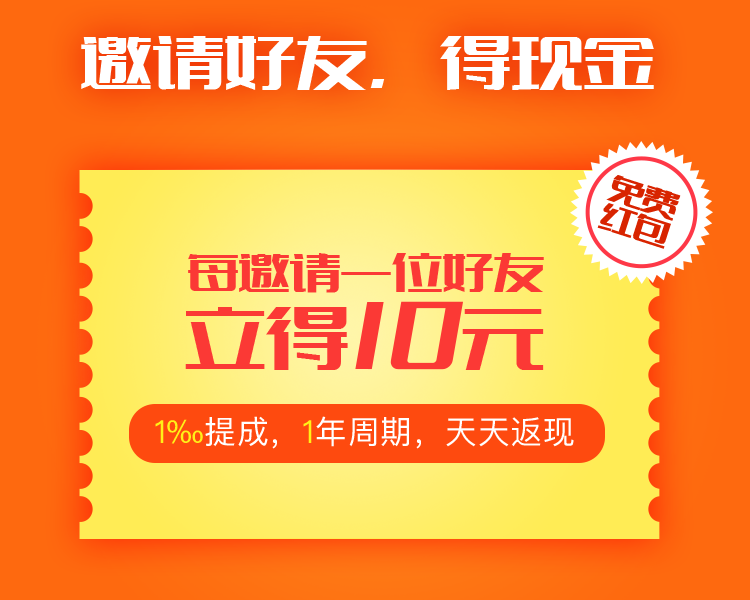
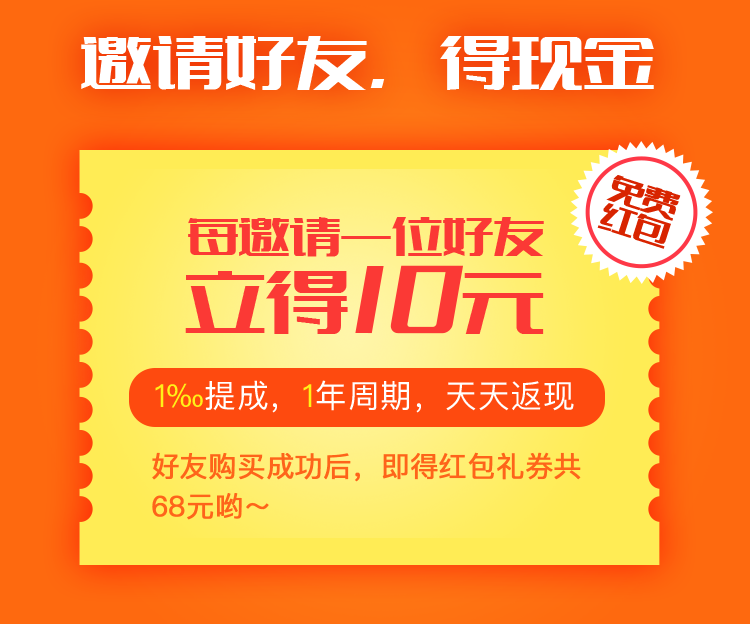
邀请好友页面修改

diff --git a/dist/css/style.css b/dist/css/style.css
@@ -1,1 +1,1 @@
-.invite-list1:before,.circle-success-icon:before{position:absolute;left:50%;-webkit-transform:translateX(-50%);-ms-transform:translateX(-50%);transform:translateX(-50%)}.search-back:before,.popbox1{position:absolute;top:50%;-webkit-transform:translateY(-50%);-ms-transform:translateY(-50%);transform:translateY(-50%)}.popbox2,.popbox3{position:absolute;top:50%;left:50%;-webkit-transform:translate(-50%, -50%);-ms-transform:translate(-50%, -50%);transform:translate(-50%, -50%)}body,h1,h2,h3,h4,h5,h6,p,img,dl,dd,ol,ul,form,th,td,figure,figcaption{margin:0;padding:0;border:0}h1,h2,h3,h4,h5,h6{font-size:100%;font-weight:normal}a{text-decoration:none;color:inherit}body{word-wrap:break-word;word-break:break-all;-webkit-text-size-adjust:100%;-moz-text-size-adjust:100%;-ms-text-size-adjust:100%;text-size-adjust:100%}ol,ul{list-style:none}table{border-collapse:collapse;border-spacing:0}button,input,select,textarea{font-size:100%;font-family:inherit;margin:0;padding:0;outline:none}input::-ms-clear,input::-ms-reveal{display:none}table{border-collapse:collapse;border-spacing:0}caption,th{text-align:left}.search-back:before,.coin-my-btn:before,.coin-signin .link:after,.list-coin-item .money-wrap,.list-coin-item .coin:before,.overlay .close:before,.test-answer-list i:before,.popbox2 i:before,.waiting,.note7 span:before,.circle-txt3:before,.circle-txt3:after,.agreement input:checked+i,.agreement i,.circle-success-icon:before{background-image:url('../img/sprite/sprite_icon.png?v=f6c1ce86');background-image:-webkit-image-set(url('../img/sprite/sprite_icon.png?v=f6c1ce86') 1x, url('../img/sprite/sprite_icon@2x.png?v=2cec14ef') 2x);background-size:229px 212px}html{-webkit-tap-highlight-color:transparent;font-family:Helvetica Neue, Helvetica, STHeiTi, sans-serif}body{-webkit-touch-callout:none;-webkit-user-select:none;-moz-user-select:none;-ms-user-select:none;user-select:none;word-break:normal}body.bg-f7{background-color:#f7f7f7}body.bg-blue{background-color:#0f7fe0}.header{position:relative;height:40px;color:#202c37;background-color:#f9f9f9;z-index:4}.logo-wrap{position:fixed;left:0;top:0;width:100%;text-align:center;font-size:18px;height:39px;line-height:39px;border-bottom:1px solid #d6d6d6;background-color:#f9f9f9}.search-back{position:absolute;left:0;top:0;bottom:0;padding-left:20px;font-size:15px}.search-back:before{content:'';background-position:-148px -99px;width:12px;height:20px;left:6px}.tab{font-size:0;border-bottom:1px solid #e7edef}.tab>li{display:inline-block;vertical-align:top;width:50%;text-align:center;font-size:15px;line-height:43px;color:#5e626d;border-right:1px solid #e7edef;-webkit-box-sizing:border-box;box-sizing:border-box}.tab>li:after{content:'';display:inline-block;vertical-align:middle;margin:-2px 0 0 5px;width:0;height:0;border-bottom:4px solid #5e626d;border-left:4px solid transparent;border-right:4px solid transparent;border-top:0}.tab>li:last-child{border-right:0}.tab .cur{color:#3a8ae2}.tab .cur:after{border-bottom:0;border-top:4px solid #3a8ae2}.tab-option-wrap{position:fixed;top:88px;left:0;width:100%;height:100%;background-color:rgba(0,0,0,0.6);z-index:1}.tab-option-list{padding:0 15px;background-color:#fff;left:0}.tab-option-list li{line-height:50px;color:#7a7e8b}.tab-option-list .cur{color:#3a8ae2}.record-total{background-color:#f6f7f9;padding:3px 15px;color:#7a7e8b;font-size:12px;line-height:16px}.list-record{padding-left:15px}.list-record li{display:-webkit-box;display:-webkit-flex;display:-ms-flexbox;display:flex;-webkit-box-align:center;-webkit-align-items:center;-ms-flex-align:center;align-items:center;border-bottom:1px solid #e7edef;padding:7px 0}.list-record .lr-detail{-webkit-box-flex:1;-webkit-flex:1;-ms-flex:1;flex:1;min-width:0}.list-record .lr-detail p:first-child{line-height:20px;color:#5e626d;font-size:15px}.list-record .lr-detail p:nth-child(2){line-height:17px;color:#7a7e8b;font-size:12px}.list-record .lr-num{padding-right:15px;-webkit-box-flex:0;-webkit-flex:none;-ms-flex:none;flex:none;color:#5e626d;font-size:15px}.column{background-color:#fff;border-bottom:8px solid #f8f8f8}.column-last{background-color:#fff}.coin-my{position:relative;padding:35px 0;background-color:#1C8AE9}.coin-my-record,.coin-my-rule{position:absolute;top:0;font-size:12px;color:rgba(255,255,255,0.8);line-height:32px;padding-bottom:15px}.coin-my-record{left:13px}.coin-my-rule{right:13px}.coin-my-num{line-height:28px;font-size:18px;color:#fff;text-align:center}.coin-my-num strong{display:block;line-height:34px;font-size:38px}.coin-my-btn{display:block;width:182px;margin:17px auto 0;line-height:43px;text-align:center;border-radius:43px;font-size:17px;color:#1c8ae9;background-color:#fff}.coin-my-btn:before{content:'';display:inline-block;vertical-align:middle;margin:-2px 7px 0 0;background-position:-148px -71px;width:20px;height:20px}.coin-signin{position:relative;height:59px;font-size:13px}.coin-signin .btn{position:absolute;left:15px;top:12px;line-height:31px;padding:0 15px;border:1px solid #6eb4f1;border-radius:33px;color:#1c8ae9}.coin-signin .btn:active{opacity:.6}.coin-signin .link{position:absolute;top:0;right:14px;line-height:55px;color:#202d38}.coin-signin .link:after{content:'';display:inline-block;vertical-align:middle;margin:-3px 0 0 6px;background-position:-219px -75px;width:8px;height:12px}.title1{height:51px;line-height:40px;padding:11px 12px 0;font-size:13px;color:#202d38;border-bottom:1px solid #f0f0f0}.title1 .arrow{float:right;color:#1c8ae9}.list-coin{font-size:0}.list-coin li{display:inline-block;vertical-align:top;width:50%;padding:25px 0 19px;text-align:center;-webkit-box-sizing:border-box;box-sizing:border-box;border-bottom:1px solid #f0f0f0}.list-coin li:nth-child(2n){border-left:1px solid #f0f0f0}.list-coin-item .money-wrap{padding:10px 0 0 10px;-webkit-box-sizing:border-box;box-sizing:border-box;display:inline-block;vertical-align:top;color:#ff7200;background-position:0px 0px;width:140px;height:72px}.list-coin-item .money{margin-left:-20px;font-size:14px;line-height:30px}.list-coin-item .money strong{display:inline-block;vertical-align:middle;margin:-6px 0 0 2px;font-size:25px}.list-coin-item .detail{font-size:11px;line-height:18px}.list-coin-item .coin{margin:9px 0 5px;line-height:20px;font-size:14px;color:#202d38}.list-coin-item .coin:before{content:'';display:inline-block;vertical-align:middle;margin:-2px 0 0;background-position:-148px -71px;width:20px;height:20px;-webkit-transform:scale(0.75);-ms-transform:scale(0.75);transform:scale(0.75)}.list-coin-item .btn{display:inline-block;vertical-align:top;width:99px;line-height:33px;color:#fff;font-size:13px;background-color:#ffa200;border-radius:33px}.list-coin-item .btn.disabled{background-color:#b5b5b5;pointer-events:none}.list-coin-item .btn:active{background-color:rgba(255,162,0,0.6)}.toast{position:fixed;top:0;bottom:0;left:0;right:0;display:-webkit-box;display:-webkit-flex;display:-ms-flexbox;display:flex;-webkit-box-align:center;-webkit-align-items:center;-ms-flex-align:center;align-items:center;-webkit-box-pack:center;-webkit-justify-content:center;-ms-flex-pack:center;justify-content:center}.toast p{padding:16px 26px;line-height:25px;text-align:center;border-radius:10px;background-color:rgba(0,0,0,0.6);color:#fff;font-size:17px}.overlay{position:fixed;top:0;left:0;width:100%;height:100%;background-color:rgba(0,0,0,0.8);z-index:10}.overlay .close{position:absolute;right:0;top:0;padding:20px 17px}.overlay .close:before{content:'';display:block;background-position:-168px -99px;width:15px;height:15px}.popbox1{width:259px;left:0;right:0;padding:0 10px;margin:auto;text-align:center;border-radius:10px;background-color:#fff;-webkit-box-sizing:border-box;box-sizing:border-box}.popbox1 h3{font-size:18px;color:#2a2a2a;line-height:55px;border-bottom:1px solid #f0f0f0}.popbox1 .list-coin-item{padding:28px 0 41px}.popbox1 .coin{margin:16px 0 7px}.popbox1 .btn{font-size:16px;line-height:39px;width:154px}.note1{padding:0 15px;line-height:30px;background-color:#f0f0f0;color:#929292;font-size:12px}.list1{padding:0 15px}.list1 li{display:-webkit-box;display:-webkit-flex;display:-ms-flexbox;display:flex;-webkit-box-align:center;-webkit-align-items:center;-ms-flex-align:center;align-items:center;padding:12px 0;border-bottom:1px solid #d9d9d9;font-size:14px;color:#262626;font-weight:bold}.list1 .left{-webkit-box-flex:1;-webkit-flex:1;-ms-flex:1;flex:1;line-height:17px}.list1 .right{-webkit-box-flex:0;-webkit-flex:none;-ms-flex:none;flex:none}.list1 .left-txt2{line-height:12px;color:#929292;font-size:9px}.title2{padding:17px 0 5px;line-height:23px;color:#ff6000;text-align:center;font-size:13px;font-weight:bold}.note2{padding:0 25px 5px;line-height:17px;font-size:12px;color:#202d38}.progress-wrap{padding:0 25px}.progress-txt{line-height:22px;font-size:12px;color:#1b1e21}.progress-line{position:relative;width:100%;height:5px;background-color:#e5e5ed;border-radius:5px;overflow:hidden}.progress-line .cur{position:absolute;left:0;top:0;height:100%;background-color:#1c8ae9}.test-wrap{position:relative;margin:25px 15px;background-color:#fff;border-radius:10px;-webkit-box-shadow:0 2px 9px 0 rgba(0,0,0,0.13);box-shadow:0 2px 9px 0 rgba(0,0,0,0.13);overflow:hidden}.test-wrap .btn{position:absolute;bottom:0;left:0;width:100%;line-height:53px;text-align:center;color:#fff;font-size:17px;font-weight:bold;background-color:#1c8ae9}.test-question{position:relative;margin:0 25px;padding:30px 0 23px 15px;font-size:18px;font-weight:bold;line-height:28px;color:#1c8ae9;border-bottom:1px solid #efefef}.test-question span{position:absolute;left:-10px}.test-answer-list label,.popbox2 label{position:relative;display:block}.test-answer-list input,.popbox2 input{display:none}.test-answer-list input:checked+i,.popbox2 input:checked+i{background-color:#1c8ae9;border-color:#1c8ae9}.test-answer-list i,.popbox2 i{position:relative;display:inline-block;vertical-align:middle;margin:-2px 8px 0 0;width:18px;height:18px;background-color:#fff;border:1px solid #d9d9d9;border-radius:100%}.test-answer-list i:before,.popbox2 i:before{content:'';position:absolute;left:0;top:0;right:0;bottom:0;margin:auto;background-position:-148px -127px;width:13px;height:10px}.test-answer-list{padding-bottom:135px;margin:18px 25px 0;line-height:25px;color:#202d38;font-size:14px}.test-answer-list label{padding:5px 0;padding-left:29px}.test-answer-list i{position:absolute;left:0;top:9px}.popbox2 .btn1,.popbox2 .btn2,.popbox3 .btn1,.popbox3 .btn2,.score-btn1,.score-btn2{display:block;line-height:40px;font-size:15px;text-align:center;border-radius:3px;font-weight:bold;-webkit-box-sizing:border-box;box-sizing:border-box}.popbox2 .btn1,.popbox3 .btn1,.score-btn1{color:#fff;background-color:#1c8ae9}.popbox2 .btn2,.popbox3 .btn2,.score-btn2{background-color:#d9ebfb;border:1px solid #1c8ae9;color:#1c8ae9}.popbox2{width:325px;background-color:#fff;border-radius:4px}.popbox2 h3{line-height:28px;text-align:center;font-size:18px;color:#0e0f10;font-weight:bold;border-bottom:1px solid #f1f1f1;margin:0 12px;padding:20px 0 15px}.popbox2 .txt1{padding:25px 30px 12px;font-size:20px;font-weight:bold;color:#ff6000}.popbox2 .txt2{padding:0 30px;line-height:25px;font-size:15px;color:#1b1b1b}.popbox2 .checkbox{line-height:21px;padding:18px 30px 25px}.popbox2 .checkbox a{color:#1c8ae9}.popbox2 .btn1{margin:0 20px}.popbox2 .btn2{margin:9px 20px 35px}@media screen and (max-width: 350px){.popbox2{-webkit-transform:translate(-50%, -50%) scale(0.85);-ms-transform:translate(-50%, -50%) scale(0.85);transform:translate(-50%, -50%) scale(0.85)}}.popbox3{width:245px;padding:39px 25px 35px;-webkit-box-sizing:border-box;box-sizing:border-box;background-color:#fff;border-radius:4px}.popbox3 .txt1{font-size:15px;color:#1b1b1b;line-height:25px}.popbox3 .btn1{margin:26px 0 10px}.waiting{margin:41.86667% auto 23px;background-position:-148px 0px;width:63px;height:63px}.note3{line-height:25px;text-align:center;font-size:18px;color:#666}.title-score{line-height:29px;text-align:center;color:#202d38;font-weight:bold;font-size:19px;margin:21.86667% 0 52px}.title-score strong{display:block;margin-top:16px;font-size:60px;line-height:70px}.score-note1,.score-note2{line-height:25px;text-align:center;font-size:14px}.score-note1{color:#ff6000}.score-note2{color:#666}.score-btn1,.score-btn2{line-height:52px;font-size:17px}.score-btn1{margin:25px 50px 0}.score-btn2{margin:15px 50px 0}.note4{line-height:45px;text-align:center;font-size:13px;color:#ff6000;background-color:#fdefd1}.reminder-wrap{padding:0 20px;line-height:25px;text-align:justify;font-size:15px;color:#202d38}.reminder-wrap p{margin:25px 0}.reminder-btn{display:block;line-height:62px;text-align:center;font-size:17px;color:#fff;background-color:#1c8ae9}.reminder-btn.disabled{background-color:#b6b6b6}.list2{padding:25px 35px 0 55px}.list2>li{position:relative;margin-bottom:8px;padding:18px 20px;line-height:20px;background-color:rgba(28,138,233,0.05);border-radius:10px;font-size:13px;color:#1c8ae9;text-align:justify}.list2 span{position:absolute;left:-32px;top:8px;background-color:#1C8AE9;width:32px;height:29px;line-height:29px;text-align:center;border-radius:32px 0 0 32px;color:#fff;font-size:14px}.list2 strong{line-height:24px;font-size:15px;font-weight:bold}.list2 img{display:block;width:100%;height:auto;margin:5px 0 10px}.list2-list1 li{position:relative;padding-left:10px}.list2-list1 li:before{content:'';position:absolute;left:0;top:5px;width:6px;height:6px;border-radius:50%;background-color:#1c8ae9}.note5{padding:12px 0 50px 55px;color:#49a1ed;font-size:12px}.banner img{display:block;width:100%;height:auto}.note-wrap{background-color:#fff;margin:0 12px;padding:20px  0 0;border:1px solid #ffe118;border-radius:10px}.note7{position:relative;text-align:justify;padding:10px 30px 0;line-height:24px;font-size:14px;color:#000;z-index:0}.invite-title+.note7{margin-top:35px}.note7 span{position:absolute;left:5px;top:5px;width:22px;text-align:center;font-size:25px;color:#fe7223;font-style:italic}.note7 span:before{content:'';position:absolute;bottom:0;left:0;background-position:-176px -71px;width:22px;height:12px;z-index:-1}.note7 strong{color:#fe5243}.note8{margin:0 15px 10px;line-height:18px;text-align:justify;font-size:13px;color:#666}.note7+.note8{margin-top:30px}.note9{margin:25px 15px 13px;padding:25px 0 20px;line-height:24px;font-size:14px;color:#fe6722;border-top:1px solid #ffe118}.note9 strong{font-size:17px;color:#fe2222}.invite-wrap2-box2{text-align:center}.list3-box{height:100px;margin-top:15px;overflow:hidden}.list3{margin:0 auto;line-height:20px;font-size:12px;color:#fff}.list3 span{display:inline-block;text-align:left}.list3 span:first-child{width:80px}.list3 span:nth-child(2){width:120px}.invite-wrap1{padding:30px 0 50px;background-color:#fe690f}.btn3{display:block;height:57px;margin:25px 13px 0;background-image:-webkit-gradient(linear, left bottom, left top, from(#ff9228), color-stop(45%, #fff600), to(#fffbca));background-image:-webkit-linear-gradient(bottom, #ff9228 0%, #fff600 45%, #fffbca 100%);background-image:linear-gradient(0deg, #ff9228 0%, #fff600 45%, #fffbca 100%);border-radius:10px;-webkit-box-shadow:0 10px 18px 0px #fd3007;box-shadow:0 10px 18px 0px #fd3007;font-size:21px;font-weight:bold;color:#702910;text-align:center;line-height:57px;text-shadow:0 2px 0 rgba(255,255,255,0.42)}.note6{position:relative;margin:-15px 10.66667% 0;padding-left:74px;line-height:20px;color:#fff118;font-size:14px}.note6 strong{position:absolute;left:0}.invite-wrap2{padding:55px 0;background-color:#fe9922}.invite-wrap2-box{padding:10px;margin:0 12px 35px;border:1px solid #ffe118;background-color:#fff;border-radius:10px}.invite-wrap2-box .invite-title{width:195px;margin:-22px auto 0}.invite-title{margin:0 15px;line-height:22px;text-align:center;font-size:15px;color:#fe4a0f;font-style:italic;background-color:#ffec55;border-radius:22px}.invite-list1{position:relative;display:-webkit-box;display:-webkit-flex;display:-ms-flexbox;display:flex;-webkit-box-pack:justify;-webkit-justify-content:space-between;-ms-flex-pack:justify;justify-content:space-between;width:280px;margin:25px auto;z-index:0}.invite-list1:before{content:'';top:15px;border-top:1px dashed #ff480f;width:200px;z-index:-1}.invite-list1 i{display:inline-block;vertical-align:top;width:28px;height:28px;margin:0 0 10px;border-radius:100%;line-height:28px;font-size:20px;color:#fff;background-color:#fe4a0f;font-style:normal}.invite-list1 li{line-height:18px;font-size:14px;color:#000;text-align:center}.title3{position:relative;padding:27px 0 0 29px;line-height:20px;color:#646565;font-size:14px;z-index:1}.title3 strong{display:block;line-height:31px;color:#de3f45;font-size:30px}.list4{margin:17px;padding:0 16px;height:100%;background-color:#fff}.list4 li{line-height:44px;border-bottom:1px solid #ebebeb;font-size:14px}.list4 span:first-child{color:#161616}.list4 span:last-child{float:right;color:#de3f45}.circle-wrap{padding-top:1px;margin:78px 15px 0;background-color:#0F7FE0;-webkit-box-shadow:0 12px 30px 4px #073fd0;box-shadow:0 12px 30px 4px #073fd0}.img-logo{display:block;margin:-53px auto 12px;width:179px;height:130px}.circle-txt1{line-height:45px;text-align:center;color:#fff;font-size:20px;text-shadow:0 7px 19px rgba(0,0,0,0.37);font-weight:bold}.circle-txt2{margin:4px 0 24px;line-height:22px;text-align:center;font-size:14px;color:#fff}.circle-txt3{position:relative;line-height:51px;text-align:center;font-size:16px;color:#fff;background-color:#fba730}.circle-txt3:before,.circle-txt3:after{content:'';position:absolute;top:0}.circle-txt3:before{left:-10px;background-position:0px -145px;width:10px;height:67px}.circle-txt3:after{right:-10px;background-position:-219px 0px;width:10px;height:67px}.circle-txt3 strong{font-size:20px;font-style:italic;margin:0 3px}.form-wrap{background-color:#edf4fa;padding:0 19px}.input-wrap{position:relative;margin-bottom:7px;background-color:#fdfeff;border:1px solid #8ac3f4;background-color:#fdfeff;border-radius:41px;padding-left:15px}.input-wrap input{line-height:39px;display:block;outline:none;border:none;font-size:14px;color:#b2b1b1}.circle-txt4{padding:20px 0 5px;line-height:23px;text-align:center;font-size:13px;color:#b2b1b1}.input-btn{position:absolute;top:0;right:15px;line-height:41px;color:#fba730;font-size:14px}.circle-btn1{margin-top:11px;display:block;line-height:42px;text-align:center;font-size:18px;color:#fff;background-color:#fba730;border-radius:42px}.agreement{padding:13px 0 19px;display:block;line-height:20px;font-size:10px;color:#999}.agreement input{display:none}.agreement input:checked+i{background-position:-191px -99px;width:13px;height:13px}.agreement i{display:inline-block;vertical-align:middle;margin:-2px 3px 0 0;background-position:-85px -80px;width:13px;height:13px}.agreement a{color:#339af3;text-decoration:underline}.circle-footer{display:-webkit-box;display:-webkit-flex;display:-ms-flexbox;display:flex;height:85px;-webkit-box-align:center;-webkit-align-items:center;-ms-flex-align:center;align-items:center}.circle-footer img{-webkit-box-flex:0;-webkit-flex:none;-ms-flex:none;flex:none;width:62px;height:16px;margin:0 6.66667% 0 15px}.circle-footer-txt{line-height:15px;font-size:12px;color:#fff}.circle-success{padding:32px 18px 29px;background:url("../img/bg-success.png?v=e5680df1") no-repeat center;background-size:100% 100%}.circle-success-icon{position:relative;padding-right:10px;height:52px;font-size:12px;color:#ed462f;text-align:center;z-index:0}.circle-success-icon strong{font-size:25px}.circle-success-icon:before{content:'';background-position:0px -80px;width:77px;height:57px;z-index:-1}.circle-success-txt1{margin-top:10px;line-height:30px;font-size:20px;text-align:center;color:#ed462f}.circle-success-txt2{text-align:center;line-height:19px;color:#666;font-size:12px}.circle-success-txt2 strong{color:#ed462f;font-weight:normal}
+.invite-list1:before,.circle-success-icon:before{position:absolute;left:50%;-webkit-transform:translateX(-50%);-ms-transform:translateX(-50%);transform:translateX(-50%)}.search-back:before,.popbox1{position:absolute;top:50%;-webkit-transform:translateY(-50%);-ms-transform:translateY(-50%);transform:translateY(-50%)}.popbox2,.popbox3{position:absolute;top:50%;left:50%;-webkit-transform:translate(-50%, -50%);-ms-transform:translate(-50%, -50%);transform:translate(-50%, -50%)}body,h1,h2,h3,h4,h5,h6,p,img,dl,dd,ol,ul,form,th,td,figure,figcaption{margin:0;padding:0;border:0}h1,h2,h3,h4,h5,h6{font-size:100%;font-weight:normal}a{text-decoration:none;color:inherit}body{word-wrap:break-word;word-break:break-all;-webkit-text-size-adjust:100%;-moz-text-size-adjust:100%;-ms-text-size-adjust:100%;text-size-adjust:100%}ol,ul{list-style:none}table{border-collapse:collapse;border-spacing:0}button,input,select,textarea{font-size:100%;font-family:inherit;margin:0;padding:0;outline:none}input::-ms-clear,input::-ms-reveal{display:none}table{border-collapse:collapse;border-spacing:0}caption,th{text-align:left}.search-back:before,.coin-my-btn:before,.coin-signin .link:after,.list-coin-item .money-wrap,.list-coin-item .coin:before,.overlay .close:before,.test-answer-list i:before,.popbox2 i:before,.waiting,.note7 span:before,.circle-txt3:before,.circle-txt3:after,.agreement input:checked+i,.agreement i,.circle-success-icon:before{background-image:url('../img/sprite/sprite_icon.png?v=f6c1ce86');background-image:-webkit-image-set(url('../img/sprite/sprite_icon.png?v=f6c1ce86') 1x, url('../img/sprite/sprite_icon@2x.png?v=2cec14ef') 2x);background-size:229px 212px}html{-webkit-tap-highlight-color:transparent;font-family:Helvetica Neue, Helvetica, STHeiTi, sans-serif}body{-webkit-touch-callout:none;-webkit-user-select:none;-moz-user-select:none;-ms-user-select:none;user-select:none;word-break:normal}body.bg-f7{background-color:#f7f7f7}body.bg-blue{background-color:#0f7fe0}.header{position:relative;height:40px;color:#202c37;background-color:#f9f9f9;z-index:4}.logo-wrap{position:fixed;left:0;top:0;width:100%;text-align:center;font-size:18px;height:39px;line-height:39px;border-bottom:1px solid #d6d6d6;background-color:#f9f9f9}.search-back{position:absolute;left:0;top:0;bottom:0;padding-left:20px;font-size:15px}.search-back:before{content:'';background-position:-148px -99px;width:12px;height:20px;left:6px}.tab{font-size:0;border-bottom:1px solid #e7edef}.tab>li{display:inline-block;vertical-align:top;width:50%;text-align:center;font-size:15px;line-height:43px;color:#5e626d;border-right:1px solid #e7edef;-webkit-box-sizing:border-box;box-sizing:border-box}.tab>li:after{content:'';display:inline-block;vertical-align:middle;margin:-2px 0 0 5px;width:0;height:0;border-bottom:4px solid #5e626d;border-left:4px solid transparent;border-right:4px solid transparent;border-top:0}.tab>li:last-child{border-right:0}.tab .cur{color:#3a8ae2}.tab .cur:after{border-bottom:0;border-top:4px solid #3a8ae2}.tab-option-wrap{position:fixed;top:88px;left:0;width:100%;height:100%;background-color:rgba(0,0,0,0.6);z-index:1}.tab-option-list{padding:0 15px;background-color:#fff;left:0}.tab-option-list li{line-height:50px;color:#7a7e8b}.tab-option-list .cur{color:#3a8ae2}.record-total{background-color:#f6f7f9;padding:3px 15px;color:#7a7e8b;font-size:12px;line-height:16px}.list-record{padding-left:15px}.list-record li{display:-webkit-box;display:-webkit-flex;display:-ms-flexbox;display:flex;-webkit-box-align:center;-webkit-align-items:center;-ms-flex-align:center;align-items:center;border-bottom:1px solid #e7edef;padding:7px 0}.list-record .lr-detail{-webkit-box-flex:1;-webkit-flex:1;-ms-flex:1;flex:1;min-width:0}.list-record .lr-detail p:first-child{line-height:20px;color:#5e626d;font-size:15px}.list-record .lr-detail p:nth-child(2){line-height:17px;color:#7a7e8b;font-size:12px}.list-record .lr-num{padding-right:15px;-webkit-box-flex:0;-webkit-flex:none;-ms-flex:none;flex:none;color:#5e626d;font-size:15px}.column{background-color:#fff;border-bottom:8px solid #f8f8f8}.column-last{background-color:#fff}.coin-my{position:relative;padding:35px 0;background-color:#1C8AE9}.coin-my-record,.coin-my-rule{position:absolute;top:0;font-size:12px;color:rgba(255,255,255,0.8);line-height:32px;padding-bottom:15px}.coin-my-record{left:13px}.coin-my-rule{right:13px}.coin-my-num{line-height:28px;font-size:18px;color:#fff;text-align:center}.coin-my-num strong{display:block;line-height:34px;font-size:38px}.coin-my-btn{display:block;width:182px;margin:17px auto 0;line-height:43px;text-align:center;border-radius:43px;font-size:17px;color:#1c8ae9;background-color:#fff}.coin-my-btn:before{content:'';display:inline-block;vertical-align:middle;margin:-2px 7px 0 0;background-position:-148px -71px;width:20px;height:20px}.coin-signin{position:relative;height:59px;font-size:13px}.coin-signin .btn{position:absolute;left:15px;top:12px;line-height:31px;padding:0 15px;border:1px solid #6eb4f1;border-radius:33px;color:#1c8ae9}.coin-signin .btn:active{opacity:.6}.coin-signin .link{position:absolute;top:0;right:14px;line-height:55px;color:#202d38}.coin-signin .link:after{content:'';display:inline-block;vertical-align:middle;margin:-3px 0 0 6px;background-position:-219px -75px;width:8px;height:12px}.title1{height:51px;line-height:40px;padding:11px 12px 0;font-size:13px;color:#202d38;border-bottom:1px solid #f0f0f0}.title1 .arrow{float:right;color:#1c8ae9}.list-coin{font-size:0}.list-coin li{display:inline-block;vertical-align:top;width:50%;padding:25px 0 19px;text-align:center;-webkit-box-sizing:border-box;box-sizing:border-box;border-bottom:1px solid #f0f0f0}.list-coin li:nth-child(2n){border-left:1px solid #f0f0f0}.list-coin-item .money-wrap{padding:10px 0 0 10px;-webkit-box-sizing:border-box;box-sizing:border-box;display:inline-block;vertical-align:top;color:#ff7200;background-position:0px 0px;width:140px;height:72px}.list-coin-item .money{margin-left:-20px;font-size:14px;line-height:30px}.list-coin-item .money strong{display:inline-block;vertical-align:middle;margin:-6px 0 0 2px;font-size:25px}.list-coin-item .detail{font-size:11px;line-height:18px}.list-coin-item .coin{margin:9px 0 5px;line-height:20px;font-size:14px;color:#202d38}.list-coin-item .coin:before{content:'';display:inline-block;vertical-align:middle;margin:-2px 0 0;background-position:-148px -71px;width:20px;height:20px;-webkit-transform:scale(0.75);-ms-transform:scale(0.75);transform:scale(0.75)}.list-coin-item .btn{display:inline-block;vertical-align:top;width:99px;line-height:33px;color:#fff;font-size:13px;background-color:#ffa200;border-radius:33px}.list-coin-item .btn.disabled{background-color:#b5b5b5;pointer-events:none}.list-coin-item .btn:active{background-color:rgba(255,162,0,0.6)}.toast{position:fixed;top:0;bottom:0;left:0;right:0;display:-webkit-box;display:-webkit-flex;display:-ms-flexbox;display:flex;-webkit-box-align:center;-webkit-align-items:center;-ms-flex-align:center;align-items:center;-webkit-box-pack:center;-webkit-justify-content:center;-ms-flex-pack:center;justify-content:center}.toast p{padding:16px 26px;line-height:25px;text-align:center;border-radius:10px;background-color:rgba(0,0,0,0.6);color:#fff;font-size:17px}.overlay{position:fixed;top:0;left:0;width:100%;height:100%;background-color:rgba(0,0,0,0.8);z-index:10}.overlay .close{position:absolute;right:0;top:0;padding:20px 17px}.overlay .close:before{content:'';display:block;background-position:-168px -99px;width:15px;height:15px}.popbox1{width:259px;left:0;right:0;padding:0 10px;margin:auto;text-align:center;border-radius:10px;background-color:#fff;-webkit-box-sizing:border-box;box-sizing:border-box}.popbox1 h3{font-size:18px;color:#2a2a2a;line-height:55px;border-bottom:1px solid #f0f0f0}.popbox1 .list-coin-item{padding:28px 0 41px}.popbox1 .coin{margin:16px 0 7px}.popbox1 .btn{font-size:16px;line-height:39px;width:154px}.note1{padding:0 15px;line-height:30px;background-color:#f0f0f0;color:#929292;font-size:12px}.list1{padding:0 15px}.list1 li{display:-webkit-box;display:-webkit-flex;display:-ms-flexbox;display:flex;-webkit-box-align:center;-webkit-align-items:center;-ms-flex-align:center;align-items:center;padding:12px 0;border-bottom:1px solid #d9d9d9;font-size:14px;color:#262626;font-weight:bold}.list1 .left{-webkit-box-flex:1;-webkit-flex:1;-ms-flex:1;flex:1;line-height:17px}.list1 .right{-webkit-box-flex:0;-webkit-flex:none;-ms-flex:none;flex:none}.list1 .left-txt2{line-height:12px;color:#929292;font-size:9px}.title2{padding:17px 0 5px;line-height:23px;color:#ff6000;text-align:center;font-size:13px;font-weight:bold}.note2{padding:0 25px 5px;line-height:17px;font-size:12px;color:#202d38}.progress-wrap{padding:0 25px}.progress-txt{line-height:22px;font-size:12px;color:#1b1e21}.progress-line{position:relative;width:100%;height:5px;background-color:#e5e5ed;border-radius:5px;overflow:hidden}.progress-line .cur{position:absolute;left:0;top:0;height:100%;background-color:#1c8ae9}.test-wrap{position:relative;margin:25px 15px;background-color:#fff;border-radius:10px;-webkit-box-shadow:0 2px 9px 0 rgba(0,0,0,0.13);box-shadow:0 2px 9px 0 rgba(0,0,0,0.13);overflow:hidden}.test-wrap .btn{position:absolute;bottom:0;left:0;width:100%;line-height:53px;text-align:center;color:#fff;font-size:17px;font-weight:bold;background-color:#1c8ae9}.test-question{position:relative;margin:0 25px;padding:30px 0 23px 15px;font-size:18px;font-weight:bold;line-height:28px;color:#1c8ae9;border-bottom:1px solid #efefef}.test-question span{position:absolute;left:-10px}.test-answer-list label,.popbox2 label{position:relative;display:block}.test-answer-list input,.popbox2 input{display:none}.test-answer-list input:checked+i,.popbox2 input:checked+i{background-color:#1c8ae9;border-color:#1c8ae9}.test-answer-list i,.popbox2 i{position:relative;display:inline-block;vertical-align:middle;margin:-2px 8px 0 0;width:18px;height:18px;background-color:#fff;border:1px solid #d9d9d9;border-radius:100%}.test-answer-list i:before,.popbox2 i:before{content:'';position:absolute;left:0;top:0;right:0;bottom:0;margin:auto;background-position:-148px -127px;width:13px;height:10px}.test-answer-list{padding-bottom:135px;margin:18px 25px 0;line-height:25px;color:#202d38;font-size:14px}.test-answer-list label{padding:5px 0;padding-left:29px}.test-answer-list i{position:absolute;left:0;top:9px}.popbox2 .btn1,.popbox2 .btn2,.popbox3 .btn1,.popbox3 .btn2,.score-btn1,.score-btn2{display:block;line-height:40px;font-size:15px;text-align:center;border-radius:3px;font-weight:bold;-webkit-box-sizing:border-box;box-sizing:border-box}.popbox2 .btn1,.popbox3 .btn1,.score-btn1{color:#fff;background-color:#1c8ae9}.popbox2 .btn2,.popbox3 .btn2,.score-btn2{background-color:#d9ebfb;border:1px solid #1c8ae9;color:#1c8ae9}.popbox2{width:325px;background-color:#fff;border-radius:4px}.popbox2 h3{line-height:28px;text-align:center;font-size:18px;color:#0e0f10;font-weight:bold;border-bottom:1px solid #f1f1f1;margin:0 12px;padding:20px 0 15px}.popbox2 .txt1{padding:25px 30px 12px;font-size:20px;font-weight:bold;color:#ff6000}.popbox2 .txt2{padding:0 30px;line-height:25px;font-size:15px;color:#1b1b1b}.popbox2 .checkbox{line-height:21px;padding:18px 30px 25px}.popbox2 .checkbox a{color:#1c8ae9}.popbox2 .btn1{margin:0 20px}.popbox2 .btn2{margin:9px 20px 35px}@media screen and (max-width: 350px){.popbox2{-webkit-transform:translate(-50%, -50%) scale(0.85);-ms-transform:translate(-50%, -50%) scale(0.85);transform:translate(-50%, -50%) scale(0.85)}}.popbox3{width:245px;padding:39px 25px 35px;-webkit-box-sizing:border-box;box-sizing:border-box;background-color:#fff;border-radius:4px}.popbox3 .txt1{font-size:15px;color:#1b1b1b;line-height:25px}.popbox3 .btn1{margin:26px 0 10px}.waiting{margin:41.86667% auto 23px;background-position:-148px 0px;width:63px;height:63px}.note3{line-height:25px;text-align:center;font-size:18px;color:#666}.title-score{line-height:29px;text-align:center;color:#202d38;font-weight:bold;font-size:19px;margin:21.86667% 0 52px}.title-score strong{display:block;margin-top:16px;font-size:60px;line-height:70px}.score-note1,.score-note2{line-height:25px;text-align:center;font-size:14px}.score-note1{color:#ff6000}.score-note2{color:#666}.score-btn1,.score-btn2{line-height:52px;font-size:17px}.score-btn1{margin:25px 50px 0}.score-btn2{margin:15px 50px 0}.note4{line-height:45px;text-align:center;font-size:13px;color:#ff6000;background-color:#fdefd1}.reminder-wrap{padding:0 20px;line-height:25px;text-align:justify;font-size:15px;color:#202d38}.reminder-wrap p{margin:25px 0}.reminder-btn{display:block;line-height:62px;text-align:center;font-size:17px;color:#fff;background-color:#1c8ae9}.reminder-btn.disabled{background-color:#b6b6b6}.list2{padding:25px 35px 0 55px}.list2>li{position:relative;margin-bottom:8px;padding:18px 20px;line-height:20px;background-color:rgba(28,138,233,0.05);border-radius:10px;font-size:13px;color:#1c8ae9;text-align:justify}.list2 span{position:absolute;left:-32px;top:8px;background-color:#1C8AE9;width:32px;height:29px;line-height:29px;text-align:center;border-radius:32px 0 0 32px;color:#fff;font-size:14px}.list2 strong{line-height:24px;font-size:15px;font-weight:bold}.list2 img{display:block;width:100%;height:auto;margin:5px 0 10px}.list2-list1 li{position:relative;padding-left:10px}.list2-list1 li:before{content:'';position:absolute;left:0;top:5px;width:6px;height:6px;border-radius:50%;background-color:#1c8ae9}.note5{padding:12px 0 50px 55px;color:#49a1ed;font-size:12px}.banner img{display:block;width:100%;height:auto}.note-wrap{background-color:#fff;margin:0 12px;padding:20px  0 0;border:1px solid #ffe118;border-radius:10px}.note7{position:relative;text-align:justify;padding:10px 30px 0;line-height:24px;font-size:14px;color:#000;z-index:0}.invite-title+.note7{margin-top:35px}.note7 span{position:absolute;left:5px;top:5px;width:22px;text-align:center;font-size:25px;color:#fe7223;font-style:italic}.note7 span:before{content:'';position:absolute;bottom:0;left:0;background-position:-176px -71px;width:22px;height:12px;z-index:-1}.note7 strong{color:#fe5243}.note8{margin:0 15px 10px;line-height:18px;text-align:justify;font-size:13px;color:#666}.note7+.note8{margin-top:30px}.note9{margin:25px 15px 13px;padding:25px 0 20px;line-height:24px;font-size:14px;color:#fe6722;border-top:1px solid #ffe118}.note9 strong{font-size:17px;color:#fe2222}.invite-wrap2-box2{text-align:center}.list3-box{height:100px;margin-top:15px;overflow:hidden}.list3{margin:0 auto;line-height:20px;font-size:12px;color:#fff}.list3 span{display:inline-block;text-align:left}.list3 span:first-child{width:80px}.list3 span:nth-child(2){width:120px}.invite-wrap1{padding:30px 0 50px;background-color:#fe690f}.btn3{display:block;height:57px;margin:25px 13px 0;background-image:-webkit-gradient(linear, left bottom, left top, from(#ff9228), color-stop(45%, #fff600), to(#fffbca));background-image:-webkit-linear-gradient(bottom, #ff9228 0%, #fff600 45%, #fffbca 100%);background-image:linear-gradient(0deg, #ff9228 0%, #fff600 45%, #fffbca 100%);border-radius:10px;-webkit-box-shadow:0 10px 18px 0px #fd3007;box-shadow:0 10px 18px 0px #fd3007;font-size:21px;font-weight:bold;color:#702910;text-align:center;line-height:57px;text-shadow:0 2px 0 rgba(255,255,255,0.42)}.note6{position:relative;margin:-5px 10.66667% 0;padding-left:74px;line-height:20px;color:#fff118;font-size:14px}.note6 strong{position:absolute;left:0}.invite-wrap2{padding:55px 0;background-color:#fe9922}.invite-wrap2-box{padding:10px;margin:0 12px 35px;border:1px solid #ffe118;background-color:#fff;border-radius:10px}.invite-wrap2-box .invite-title{width:195px;margin:-22px auto 0}.invite-title{margin:0 15px;line-height:22px;text-align:center;font-size:15px;color:#fe4a0f;font-style:italic;background-color:#ffec55;border-radius:22px}.invite-list1{position:relative;display:-webkit-box;display:-webkit-flex;display:-ms-flexbox;display:flex;-webkit-box-pack:justify;-webkit-justify-content:space-between;-ms-flex-pack:justify;justify-content:space-between;width:280px;margin:25px auto;z-index:0}.invite-list1:before{content:'';top:15px;border-top:1px dashed #ff480f;width:200px;z-index:-1}.invite-list1 i{display:inline-block;vertical-align:top;width:28px;height:28px;margin:0 0 10px;border-radius:100%;line-height:28px;font-size:20px;color:#fff;background-color:#fe4a0f;font-style:normal}.invite-list1 li{line-height:18px;font-size:14px;color:#000;text-align:center}.title3{position:relative;padding:27px 0 0 29px;line-height:20px;color:#646565;font-size:14px;z-index:1}.title3 strong{display:block;line-height:31px;color:#de3f45;font-size:30px}.list4{margin:17px;padding:0 16px;height:100%;background-color:#fff}.list4 li{line-height:44px;border-bottom:1px solid #ebebeb;font-size:14px}.list4 span:first-child{color:#161616}.list4 span:last-child{float:right;color:#de3f45}.circle-wrap{padding-top:1px;margin:78px 15px 0;background-color:#0F7FE0;-webkit-box-shadow:0 12px 30px 4px #073fd0;box-shadow:0 12px 30px 4px #073fd0}.img-logo{display:block;margin:-53px auto 12px;width:179px;height:130px}.circle-txt1{line-height:45px;text-align:center;color:#fff;font-size:20px;text-shadow:0 7px 19px rgba(0,0,0,0.37);font-weight:bold}.circle-txt2{margin:4px 0 24px;line-height:22px;text-align:center;font-size:14px;color:#fff}.circle-txt3{position:relative;line-height:51px;text-align:center;font-size:16px;color:#fff;background-color:#fba730}.circle-txt3:before,.circle-txt3:after{content:'';position:absolute;top:0}.circle-txt3:before{left:-10px;background-position:0px -145px;width:10px;height:67px}.circle-txt3:after{right:-10px;background-position:-219px 0px;width:10px;height:67px}.circle-txt3 strong{font-size:20px;font-style:italic;margin:0 3px}.form-wrap{background-color:#edf4fa;padding:0 19px}.input-wrap{position:relative;margin-bottom:7px;background-color:#fdfeff;border:1px solid #8ac3f4;background-color:#fdfeff;border-radius:41px;padding-left:15px}.input-wrap input{line-height:39px;display:block;outline:none;border:none;font-size:14px;color:#b2b1b1}.circle-txt4{padding:20px 0 5px;line-height:23px;text-align:center;font-size:13px;color:#b2b1b1}.input-btn{position:absolute;top:0;right:15px;line-height:41px;color:#fba730;font-size:14px}.circle-btn1{margin-top:11px;display:block;line-height:42px;text-align:center;font-size:18px;color:#fff;background-color:#fba730;border-radius:42px}.agreement{padding:13px 0 19px;display:block;line-height:20px;font-size:10px;color:#999}.agreement input{display:none}.agreement input:checked+i{background-position:-191px -99px;width:13px;height:13px}.agreement i{display:inline-block;vertical-align:middle;margin:-2px 3px 0 0;background-position:-85px -80px;width:13px;height:13px}.agreement a{color:#339af3;text-decoration:underline}.circle-footer{display:-webkit-box;display:-webkit-flex;display:-ms-flexbox;display:flex;height:85px;-webkit-box-align:center;-webkit-align-items:center;-ms-flex-align:center;align-items:center}.circle-footer img{-webkit-box-flex:0;-webkit-flex:none;-ms-flex:none;flex:none;width:62px;height:16px;margin:0 6.66667% 0 15px}.circle-footer-txt{line-height:15px;font-size:12px;color:#fff}.circle-success{padding:32px 18px 29px;background:url("../img/bg-success.png?v=e5680df1") no-repeat center;background-size:100% 100%}.circle-success-icon{position:relative;padding-right:10px;height:52px;font-size:12px;color:#ed462f;text-align:center;z-index:0}.circle-success-icon strong{font-size:25px}.circle-success-icon:before{content:'';background-position:0px -80px;width:77px;height:57px;z-index:-1}.circle-success-txt1{margin-top:10px;line-height:30px;font-size:20px;text-align:center;color:#ed462f}.circle-success-txt2{text-align:center;line-height:19px;color:#666;font-size:12px}.circle-success-txt2 strong{color:#ed462f;font-weight:normal}

diff --git a/src/邀请好友.html b/src/邀请好友.html
@@ -12,7 +12,7 @@
     <div class="banner">
         <img src="./img/banner1.png" alt="">
     </div>
-    <p class="note6"><strong>好友可得：</strong>10元现金免费红包，购买后可提现78元红包套餐</p>
+    <p class="note6"><strong>好友可得：</strong>10元现金免费红包＋78元红包礼券</p>
     <a href="#" class="btn3">立即邀请，赚取现金红包</a>
 </div>
 <div class="invite-wrap2">

diff --git a/dist/邀请好友.html b/dist/邀请好友.html
@@ -18,7 +18,7 @@
 		<div class="banner">
 			<img src="./img/banner1.png" alt="">
 		</div>
-		<p class="note6"><strong>好友可得：</strong>10元现金免费红包，购买后可提现78元红包套餐</p>
+		<p class="note6"><strong>好友可得：</strong>10元现金免费红包＋78元红包礼券</p>
 		<a href="#" class="btn3">立即邀请，赚取现金红包</a>
 	</div>
 	<div class="invite-wrap2">

diff --git a/src/css/style.scss b/src/css/style.scss
@@ -898,7 +898,7 @@ body{
 
 .note6{
   position: relative;
-  margin: -30px percentage(80/750) 0;
+  margin: -10px percentage(80/750) 0;
   padding-left: 148px;
   line-height: 40px;
   color: #fff118;
